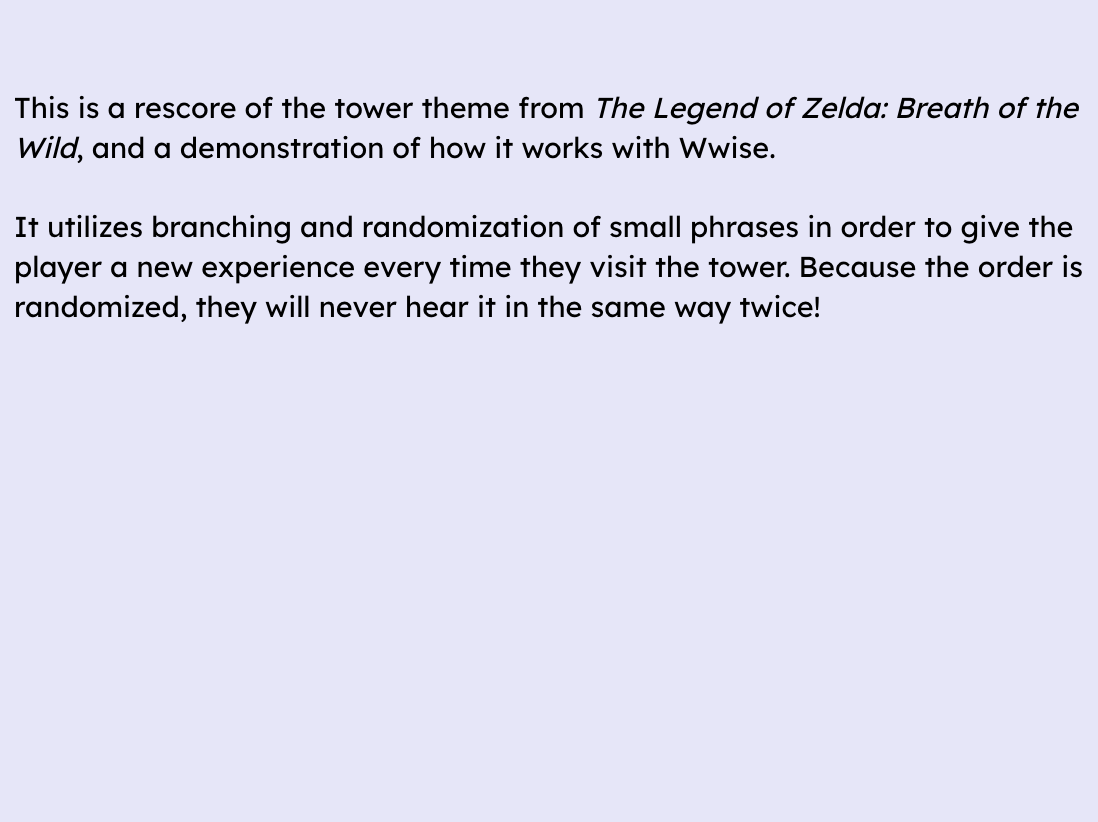
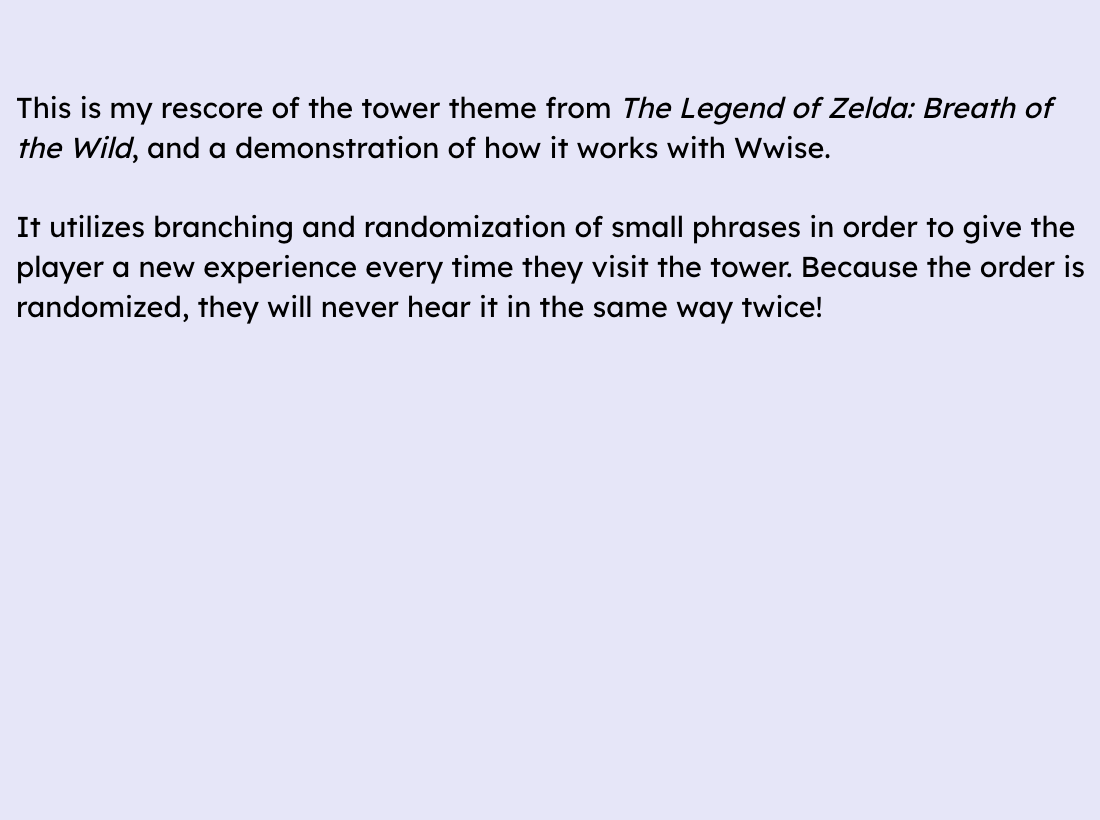
fixing little text errors

Changed region(s): [[0.0, 0.2439, 0.9909, 0.3963], [0.0, 0.122, 0.9909, 0.2134]]

diff --git a/Listen/index.html b/Listen/index.html
@@ -129,16 +129,9 @@
   
   <br>
   
-  <img src="Text_WwiseWoods.png" width="640" height="480">
+  <img src="Text_SwordSearch.png" width="640" height="480">
   
 
-<br>
-<br>
-<br>
-<br>
-<br>
-<br>
-<br>
 <br>
 <br>
 <br>
@@ -149,6 +142,9 @@
 <video width="640" height="480" controls>
   <source src="CalicoDesert.mp4" type="video/mp4">
   </video>
+  
+  <br>
+   <img src="Text_CalicoDesert.png" width="640" height="480">
 
 <br>
 <br>
